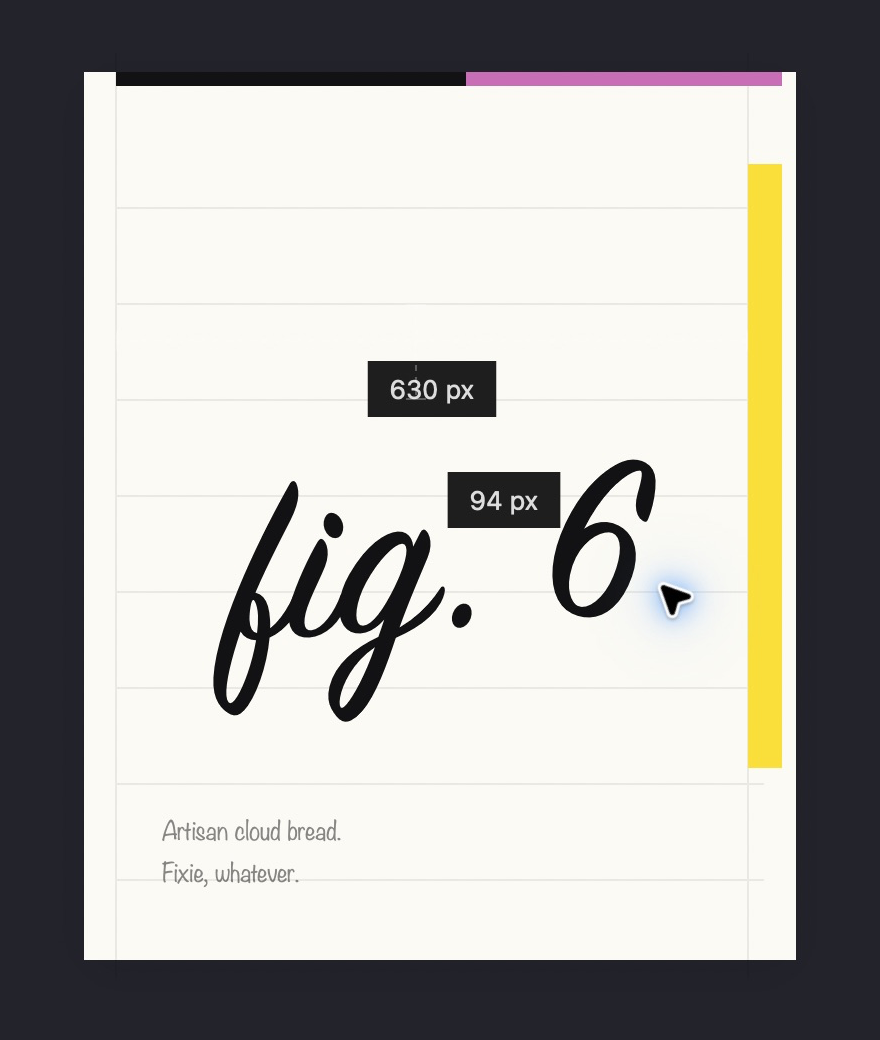
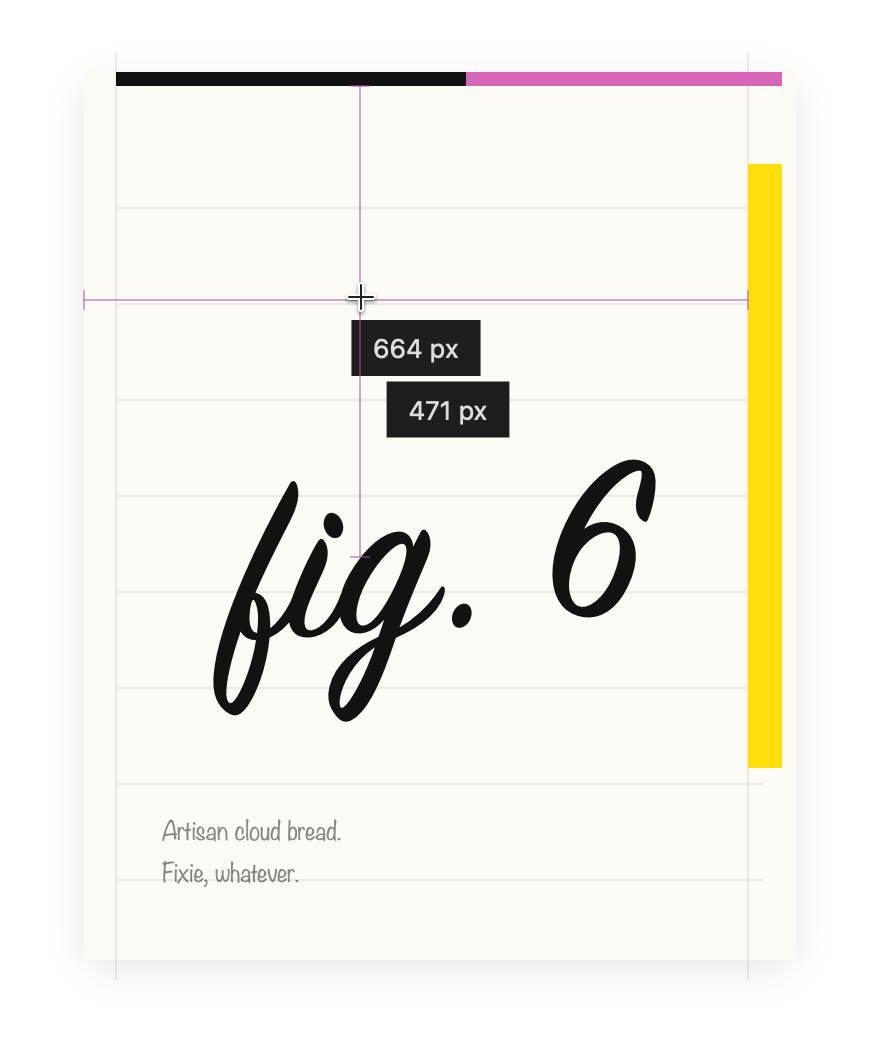
Show live native Find Dimensions axes in demo and poster

diff --git a/Scripts/render-native-hover.swift b/Scripts/render-native-hover.swift
@@ -1,0 +1,55 @@
+#!/usr/bin/env swift
+// Render an offscreen fixture with the app's unmodified MeasurementView and edge detector.
+// This does not launch, capture, or send input to any application.
+import Foundation
+let root = URL(fileURLWithPath: FileManager.default.currentDirectoryPath)
+let build = root.appendingPathComponent("build/NativeHover")
+try FileManager.default.createDirectory(at: build, withIntermediateDirectories: true)
+func read(_ path: String) throws -> String { try String(contentsOf: root.appendingPathComponent(path), encoding: .utf8) }
+func run(_ args: [String]) throws {
+    let task = Process(); task.executableURL = URL(fileURLWithPath: "/usr/bin/env"); task.arguments = args
+    try task.run(); task.waitUntilExit(); precondition(task.terminationStatus == 0)
+}
+let overlay = try read("Sources/Schnaps/Overlay.swift")
+let view = String(overlay[overlay.range(of: "@MainActor\nfinal class MeasurementView")!.lowerBound...])
+let settings = try read("Sources/Schnaps/Settings.swift")
+let declarations = String(settings[settings.range(of: "enum MeasurementMode")!.lowerBound..<settings.range(of: "enum SettingsPane")!.lowerBound])
+let snapshot = try read("Sources/Schnaps/ScreenSnapshot.swift")
+let snapshotData = String(snapshot[snapshot.range(of: "struct ScreenSnapshot")!.lowerBound..<snapshot.range(of: "    @MainActor\n    static func capture")!.lowerBound]) + "}\n"
+try ("import AppKit\nimport MeasurementCore\n" + declarations + snapshotData + view).write(to: build.appendingPathComponent("AppMeasurementView.swift"), atomically: true, encoding: .utf8)
+let fixture = #"""
+import AppKit
+import MeasurementCore
+let root = URL(fileURLWithPath: FileManager.default.currentDirectoryPath)
+try MainActor.assumeIsolated {
+    // Registered defaults belong only to this fixture process; the installed app's preferences are untouched.
+    UserDefaults.standard.register(defaults: [PreferenceKey.unit: "px", PreferenceKey.tolerance: 36])
+    let data = try Data(contentsOf: root.appendingPathComponent("Assets/Previews/Schnaps-Drawing-Subject.png"))
+    let image = NSBitmapImageRep(data: data)!.cgImage!
+    let snapshot = ScreenSnapshot(image: image, pixels: PixelBuffer(image: image)!, scaleX: 2, scaleY: 2)
+    let view = MeasurementView(frame: CGRect(x: 0, y: 0, width: 440, height: 520), scale: 2, snapshot: snapshot, mode: .findDimensions)
+    view.appearance = NSAppearance(named: .darkAqua)
+    for (name, point) in [("01-hover", CGPoint(x: 180, y: 370)), ("02-hover", CGPoint(x: 350, y: 280))] {
+        let event = NSEvent.mouseEvent(with: .mouseMoved, location: point, modifierFlags: [], timestamp: 0, windowNumber: 0, context: nil, eventNumber: 0, clickCount: 0, pressure: 0)!
+        view.mouseMoved(with: event)
+        let bitmap = NSBitmapImageRep(bitmapDataPlanes: nil, pixelsWide: 880, pixelsHigh: 1040, bitsPerSample: 8, samplesPerPixel: 4, hasAlpha: true, isPlanar: false, colorSpaceName: .deviceRGB, bytesPerRow: 880 * 4, bitsPerPixel: 32)!
+        bitmap.size = view.bounds.size
+        view.effectiveAppearance.performAsCurrentDrawingAppearance {
+            view.cacheDisplay(in: view.bounds, to: bitmap)
+            NSGraphicsContext.saveGraphicsState()
+            NSGraphicsContext.current = NSGraphicsContext(bitmapImageRep: bitmap)
+            let cursor = NSCursor.crosshair
+            cursor.image.draw(at: CGPoint(x: point.x - cursor.hotSpot.x, y: point.y - cursor.hotSpot.y), from: .zero, operation: .sourceOver, fraction: 1)
+            NSGraphicsContext.restoreGraphicsState()
+        }
+        let output = root.appendingPathComponent("website/media-source/drawing-frames/\(name).png")
+        try bitmap.representation(using: .png, properties: [:])!.write(to: output)
+        print("\(name): \(view.accessibilityValue() ?? "")")
+    }
+}
+"""#
+try fixture.write(to: build.appendingPathComponent("main.swift"), atomically: true, encoding: .utf8)
+let core = try FileManager.default.contentsOfDirectory(at: root.appendingPathComponent("Sources/MeasurementCore"), includingPropertiesForKeys: nil).filter { $0.pathExtension == "swift" }.map(\.path)
+try run(["swiftc", "-emit-library", "-emit-module", "-module-name", "MeasurementCore"] + core + ["-o", build.appendingPathComponent("libMeasurementCore.dylib").path, "-emit-module-path", build.appendingPathComponent("MeasurementCore.swiftmodule").path])
+try run(["swiftc", "-I", build.path, "-L", build.path, "-lMeasurementCore", "-Xlinker", "-rpath", "-Xlinker", build.path, build.appendingPathComponent("AppMeasurementView.swift").path, build.appendingPathComponent("main.swift").path, "-o", build.appendingPathComponent("render").path])
+try run([build.appendingPathComponent("render").path])

diff --git a/Scripts/export-drawing-demo.swift b/Scripts/export-drawing-demo.swift
@@ -1,5 +1,5 @@
 #!/usr/bin/env swift
-// Encode cropped, genuine Schnaps captures. No measurement UI is drawn here.
+// Encode native Schnaps hover renders and cropped app captures. No measurement UI is drawn by this encoder.
 import AppKit
 import Foundation
 
@@ -97,9 +97,9 @@ encoder.waitUntilExit()
 precondition(encoder.terminationStatus == 0, "Install the WebP tools (img2webp) before exporting.")
 let poster = Process()
 poster.executableURL = URL(fileURLWithPath: "/usr/bin/env")
-poster.arguments = ["cwebp", "-quiet", "-lossless", "-q", "75", "-m", "6", staging.appendingPathComponent("05-pinned.png").path,
+poster.arguments = ["cwebp", "-quiet", "-lossless", "-q", "75", "-m", "6", staging.appendingPathComponent("01-hover.png").path,
     "-o", output.appendingPathComponent("schnaps-drawing-demo-poster.webp").path]
 try poster.run()
 poster.waitUntilExit()
 precondition(poster.terminationStatus == 0, "Static WebP export failed.")
-print("Exported a genuine \(frames.reduce(0) { $0 + $1.duration }) ms drawing demo, 880 × 1040 px (440 × 520 CSS px).")
+print("Exported a native Schnaps \(frames.reduce(0) { $0 + $1.duration }) ms drawing demo, 880 × 1040 px (440 × 520 CSS px).")

diff --git a/website/dist/index.html b/website/dist/index.html
@@ -43,7 +43,7 @@
       </section>
       <div class="showcase">
         <figure class="app-demo">
-          <img id="demo" src="/assets/schnaps-drawing-demo-poster.webp?v=real-app-1" data-animation="/assets/schnaps-drawing-demo.webp?v=real-app-1" data-poster="/assets/schnaps-drawing-demo-poster.webp?v=real-app-1" width="440" height="520" alt="Schnaps in use over an editorial drawing: real hover distances, resizing an area measurement, and pinning the dimensions." />
+          <img id="demo" src="/assets/schnaps-drawing-demo-poster.webp?v=live-lines-2" data-animation="/assets/schnaps-drawing-demo.webp?v=live-lines-2" data-poster="/assets/schnaps-drawing-demo-poster.webp?v=live-lines-2" width="440" height="520" alt="Schnaps in use over an editorial drawing: real hover distances, resizing an area measurement, and pinning the dimensions." />
           <figcaption>Hover. Measure. Pin. Copy.<button id="demo-toggle" class="demo-toggle" type="button" hidden>Play</button></figcaption>
         </figure>
         <section class="features" aria-label="Measurement tools">

diff --git a/website/README.md b/website/README.md
@@ -12,9 +12,9 @@ Deploy from `website/` with `npx wrangler deploy`, using the authenticated Cloud
 
 ## Demo and branding
 
-The homepage animation uses genuine Schnaps 0.6.2 captures over an editorial drawing, showing hover distances, area resizing, and pinning. The app's measurement UI is preserved; the exporter only removes the edge-connected desktop backdrop. No video player or animation library is loaded.
+The homepage animation combines native Schnaps hover renders with genuine Schnaps 0.6.2 captures over an editorial drawing. Hover frames use the app’s unmodified `MeasurementView`, snapshot model, and edge detector, rendered offscreen by `Scripts/render-native-hover.swift`; High tolerance skips faint paper rules so both axes are visible. The area resizing and pinning frames are app captures. The encoder only removes the edge-connected desktop backdrop. No video player or animation library is loaded.
 
-Run `swift Scripts/export-drawing-demo.swift` from the repository root to encode the cropped captures in `website/media-source/drawing-frames/` using `timeline.json`. The animation and pinned-measurement poster are transparent 880 × 1040 px WebPs displayed at no more than 400 CSS pixels wide. Pause/play, reduced-motion still behavior, and a no-JavaScript poster remain available. WebP tools (`img2webp`, `cwebp`) are required.
+Run `swift Scripts/render-native-hover.swift` to regenerate the live hover frames from the app source. Then run `swift Scripts/export-drawing-demo.swift` from the repository root to encode the cropped captures in `website/media-source/drawing-frames/` using `timeline.json`. The animation and live Find Dimensions poster are transparent 880 × 1040 px WebPs displayed at no more than 400 CSS pixels wide. Pause/play, reduced-motion still behavior, and a no-JavaScript poster remain available. WebP tools (`img2webp`, `cwebp`) are required.
 
 The drawing source is `Assets/Previews/Schnaps-Drawing-Subject.png`, generated with `swift Scripts/export-illustrated-demo.swift --subject-only`. The earlier illustrated walkthrough and its exporter are retained as design source, but the homepage uses real app captures.
 
